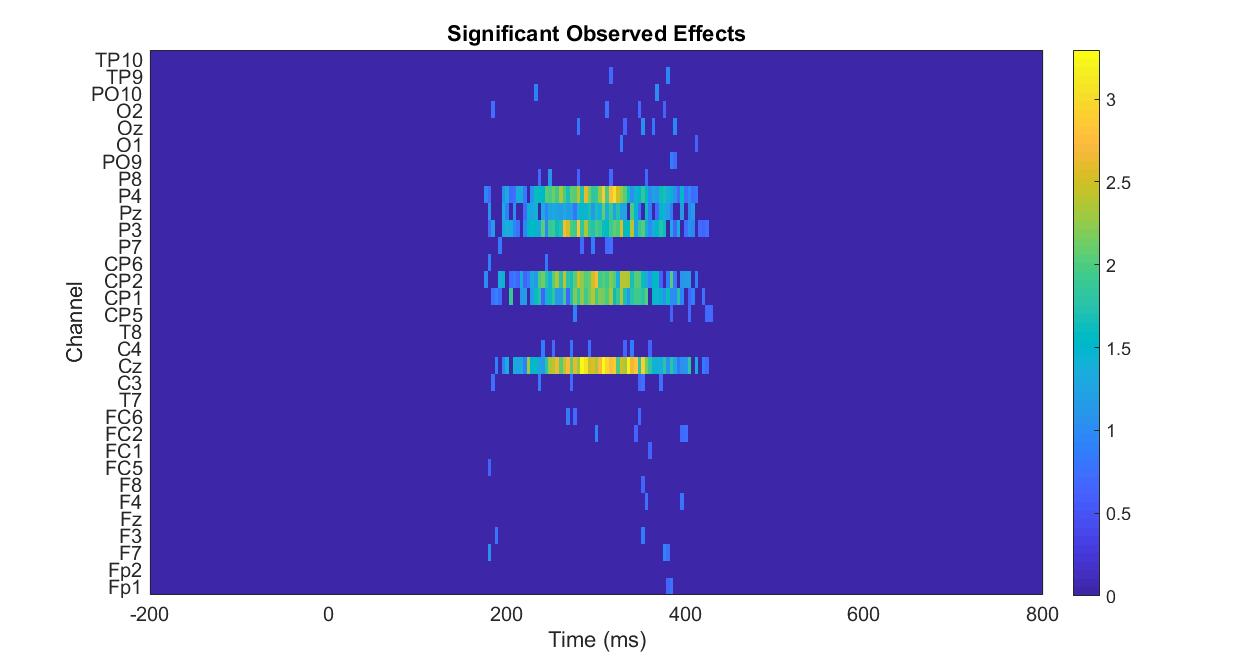
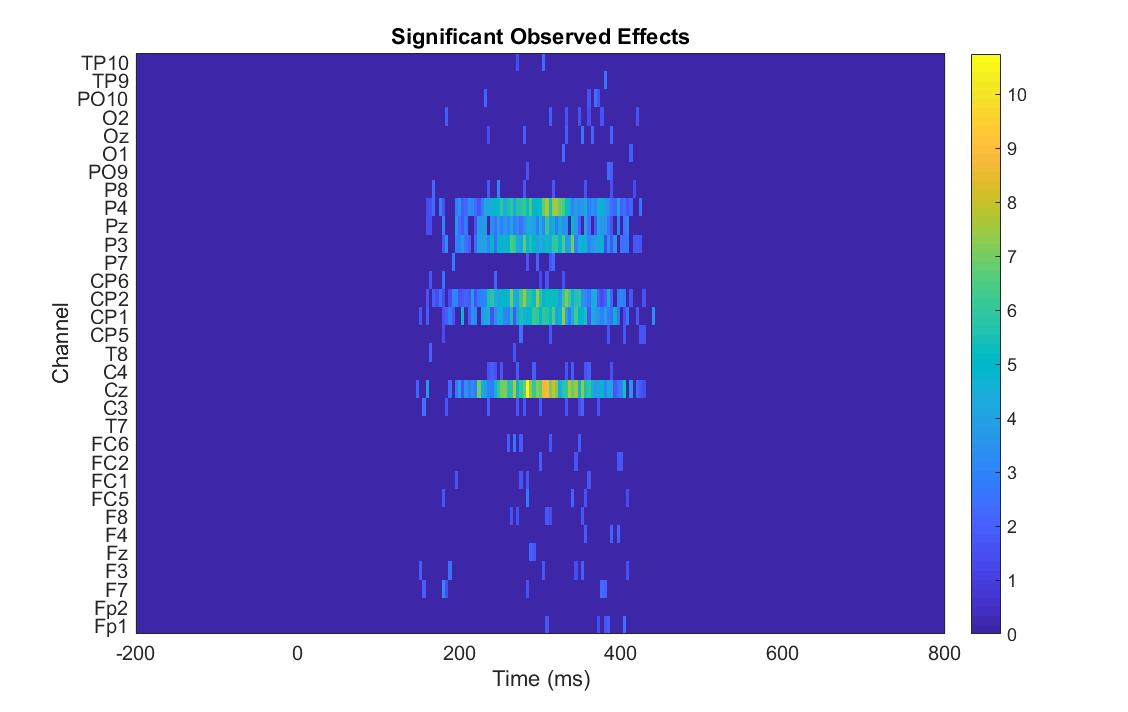
polish between-subject simple

diff --git a/File2_TFCE_betweenSubject_simple.m b/File2_TFCE_betweenSubject_simple.m
@@ -83,12 +83,11 @@ maxTFCE = sort([TFCE_permMax;max(abs(TFCE_Obs(:)))]);
 maxTFCEcrit = maxTFCE(round(nPerm*(1-Alpha)));
 Mask = abs(TFCE_Obs)>=maxTFCEcrit;
 P_Values = NaN(size(TFCE_Obs,1),size(TFCE_Obs,2));
-for idx = 1:size(TFCE_Obs,1)
-    for jdx = 1:size(TFCE_Obs,2)
-        P_Values(idx,jdx) = sum(abs(TFCE_Obs(idx,jdx))<=maxTFCE)/(nPerm+1);
+for ch = 1:nChan
+    for tpoint = 1:nTime
+        P_Values(ch,tpoint) = sum(abs(TFCE_Obs(ch,tpoint))<=maxTFCE)/(nPerm+1);
     end
 end
-
 Results.Obs                 = t_Obs;
 Results.TFCE_Obs            = TFCE_Obs;
 Results.maxTFCE             = maxTFCE;

diff --git a/File2_TFCE_betweenSubjec_2by2.m b/File2_TFCE_betweenSubjec_2by2.m
@@ -117,9 +117,9 @@ maxTFCE_var1 = sort([TFCE_permMax_var1;max(abs(TFCE_Obs_var1(:)))]);
 maxTFCEcrit_var1 = maxTFCE_var1(round(nPerm*(1-Alpha)));
 Mask_var1 = abs(TFCE_Obs_var1)>=maxTFCEcrit_var1;
 P_Values_var1 = NaN(size(TFCE_Obs_var1,1),size(TFCE_Obs_var1,2));
-for idx = 1:size(TFCE_Obs_var1,1)
-    for jdx = 1:size(TFCE_Obs_var1,2)
-        P_Values_var1(idx,jdx) = sum(abs(TFCE_Obs_var1(idx,jdx))<=maxTFCE_var1)/(nPerm+1);
+for ch = 1:nChan
+    for tpoint = 1:size(nTime,2)
+        P_Values_var1(ch,tpoint) = sum(abs(TFCE_Obs_var1(ch,tpoint))<=maxTFCE_var1)/(nPerm+1);
     end
 end
 
